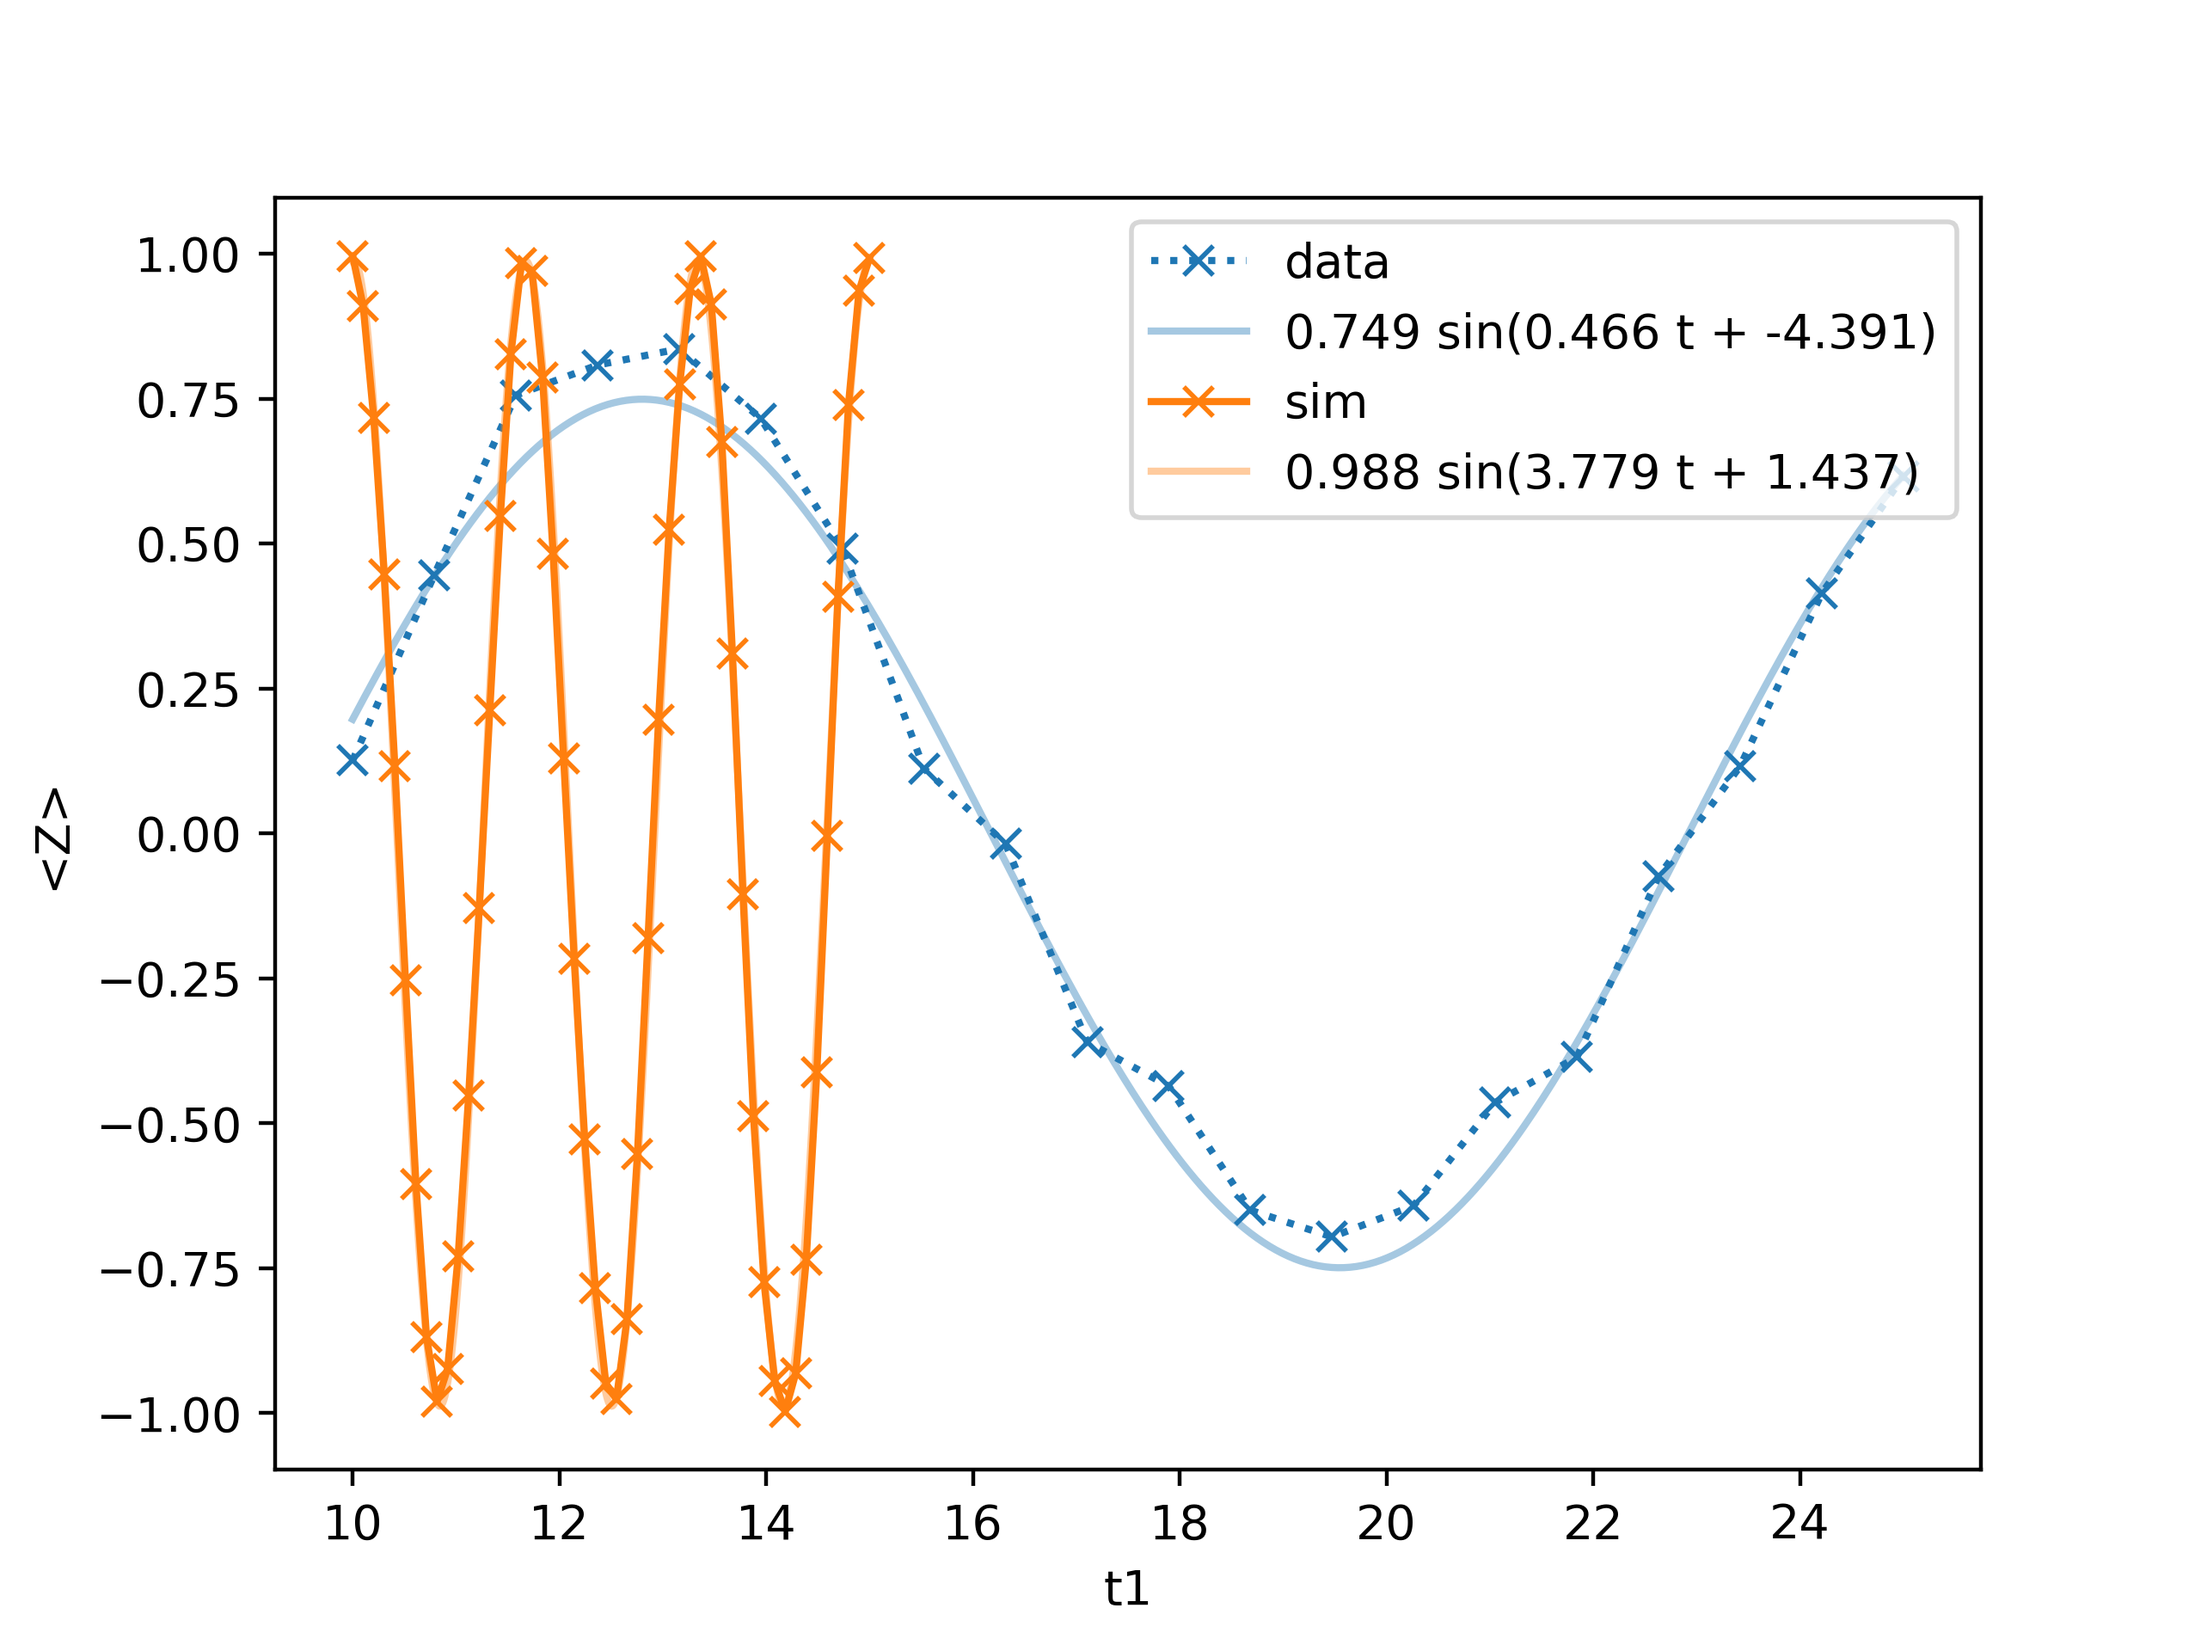
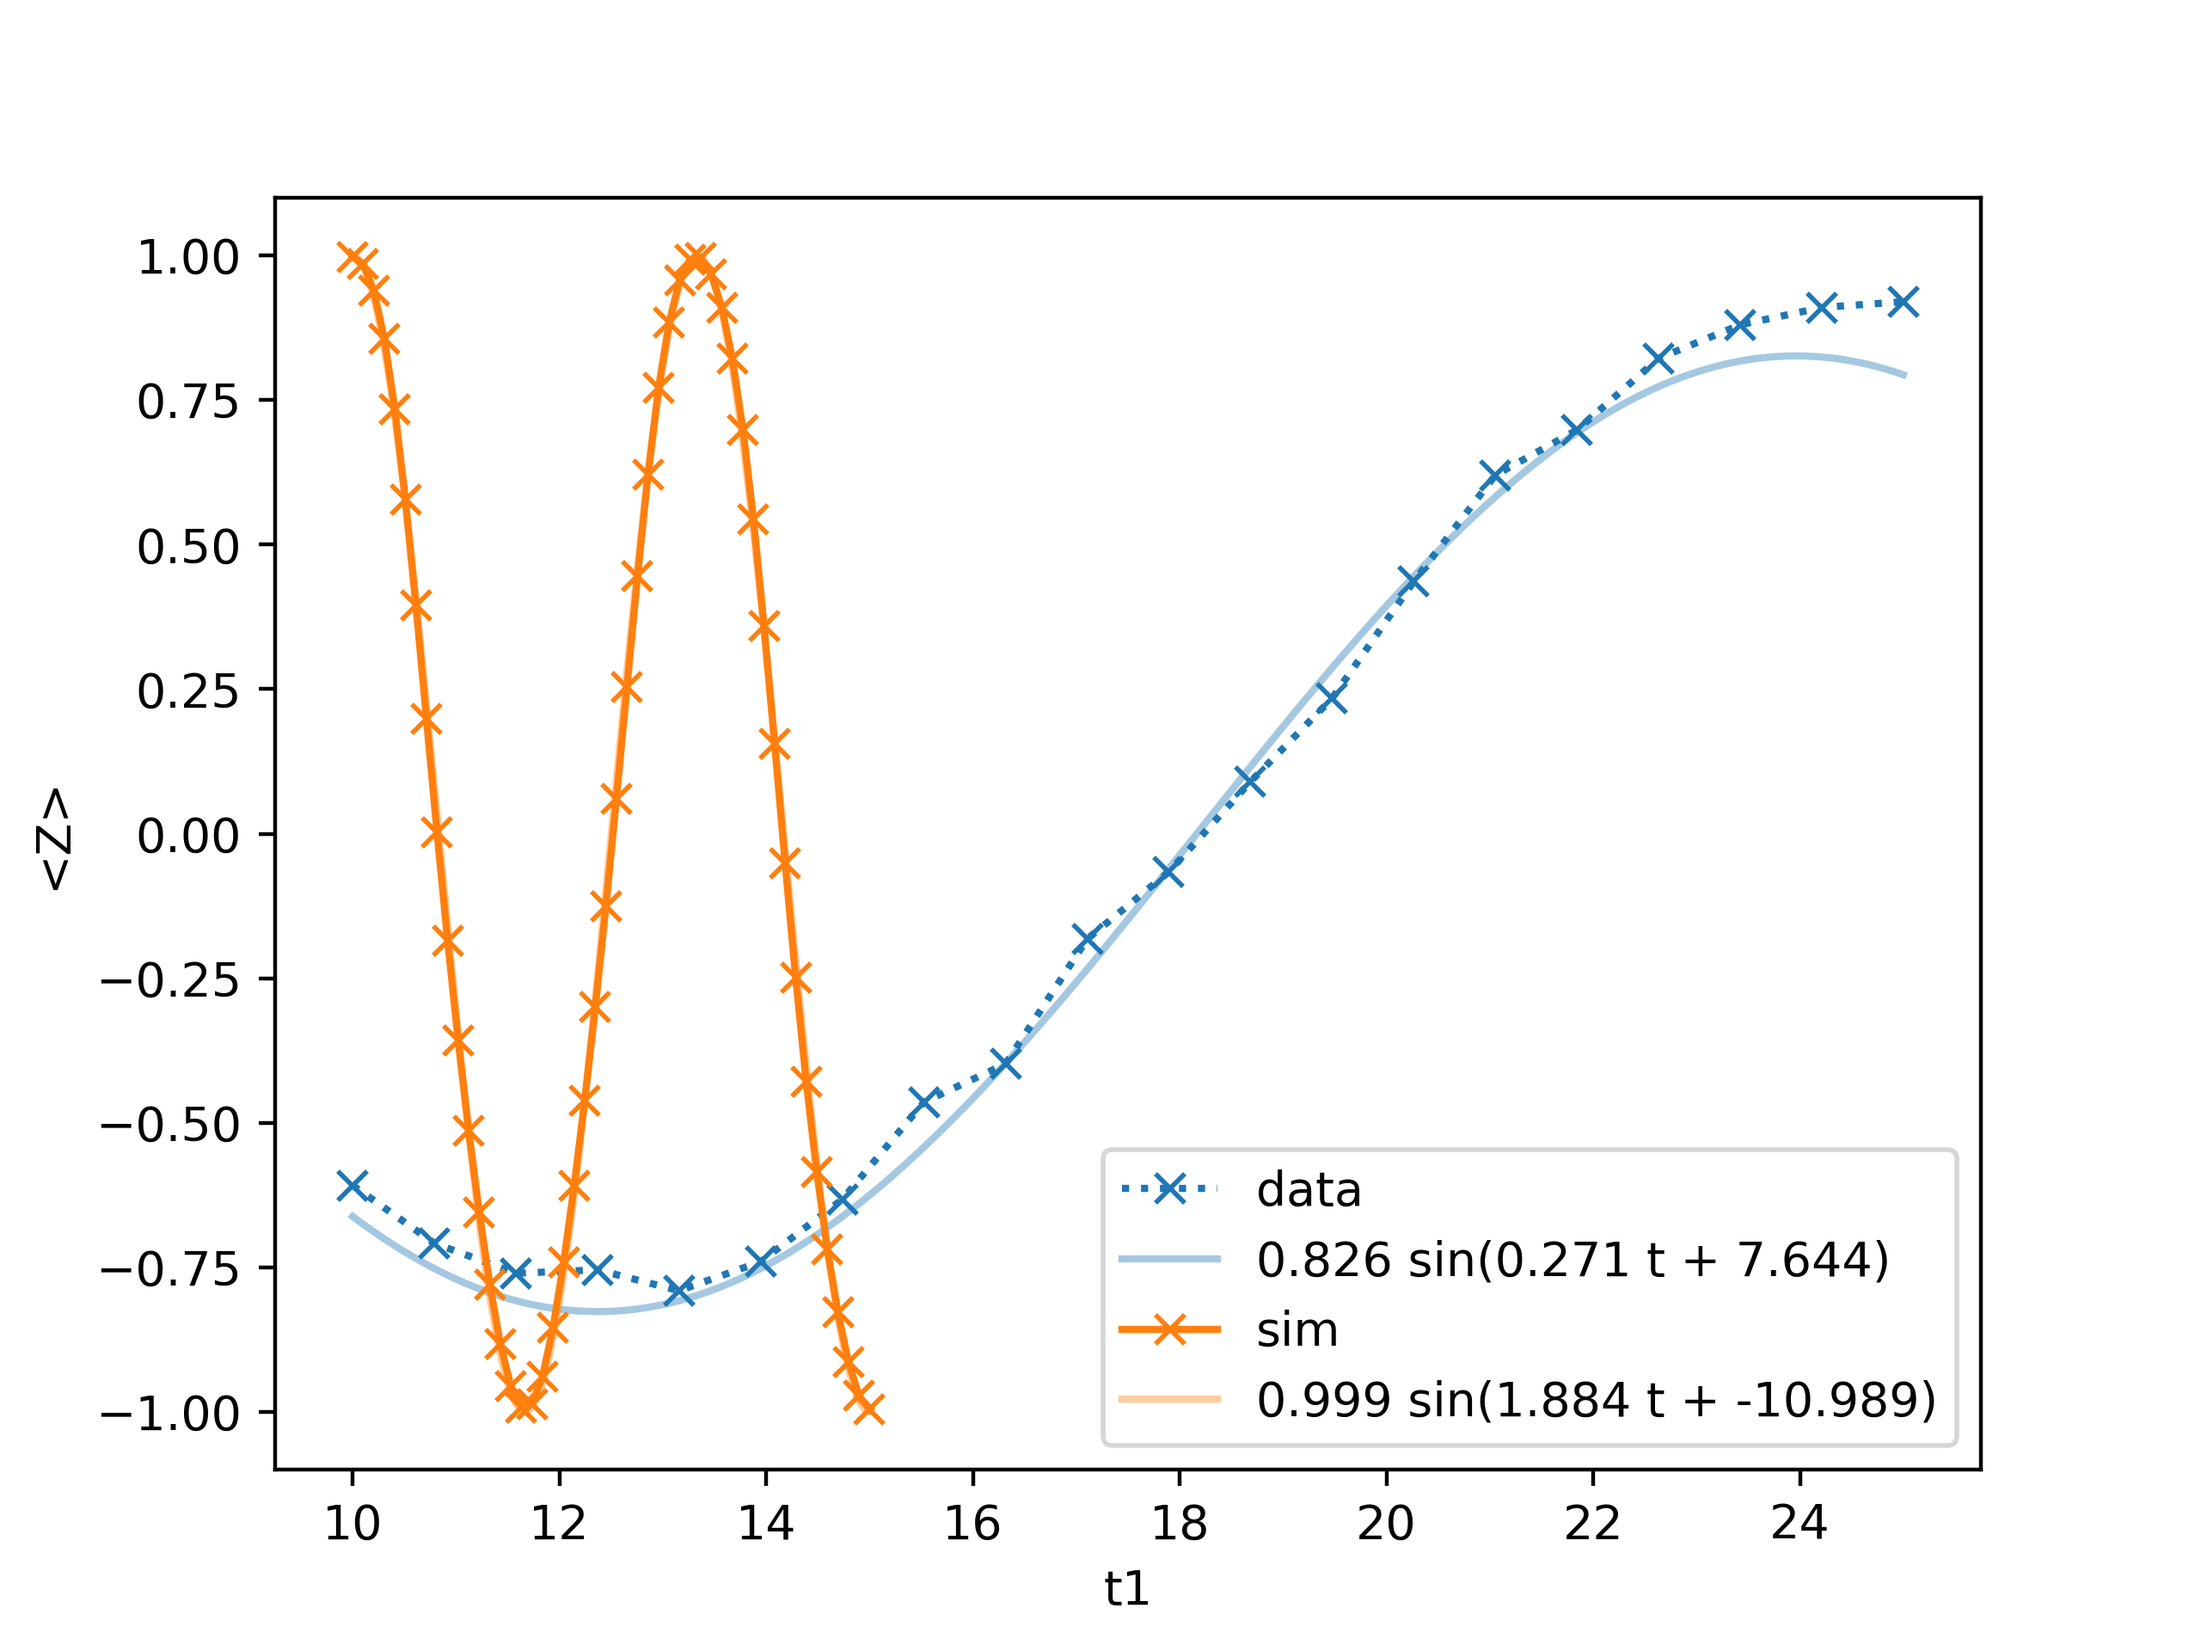
Calibration section

diff --git a/demonstrations/oqc_pulse.py b/demonstrations/oqc_pulse.py
@@ -15,17 +15,32 @@ Abstract
 
 |
 
-.. figure:: ../demonstrations/ahs_aquila/aquila_demo_image.png
+.. figure:: ../demonstrations/oqc_pulse/qubit_rotation.png
     :align: center
     :width: 70%
-    :alt: Illustration of robotic hand controlling Rubidium atoms with electromagnetic pulses
+    :alt: Illustration of how single qubit rotations are realized by Z-precession and Rabi oscillation
     :target: javascript:void(0);
 
 |
 
+Introduction
+============
+
+Pulse level access to quantum computers provides a `new class for parametrizing gates <tutorial_pulse_programming101>`_.
+Additionally to accessing `neutral atom quantum computers by Quera through PennyLane and aws <ahs_aquila>`_, we now 
+also have the opportunity to access a 8-qubit superconducting quantum computer with a ring-like connectivity,
+OQC's Lucy. Through the `PennyLane-Braket plugin <https://amazon-braket-pennylane-plugin-python.readthedocs.io/en/latest/>`_,
+we can now combine digital and pulse gates.
+
+.. note::
+
+    To access remote services on Amazon Braket, you must first
+    `create an account on AWS <https://aws.amazon.com/braket/getting-started/>`__ and also follow the
+    `setup instructions <https://github.com/aws/amazon-braket-sdk-python>`__ for accessing Braket from Python.
+
 
 Transmon Physics
-----------------
+================
 
 Oxford Quantum Circuit's Lucy is a quantum computer with 8 superconducting transmon qubits based on the coaxmon design #Rahamim.
 In order to control a transmon qubit, it is driven by an electromagnetic microwave pulse. This can be modeled by the Hamiltonian
@@ -33,8 +48,11 @@ In order to control a transmon qubit, it is driven by an electromagnetic microwa
 $$ H(t) = - \frac{\omega_q}{2} Z_q + \Omega(t) \sin(\nu_q t + \phi) Y_q $$
 
 of the driven qubit with qubit frequency $\omega_q$, drive amplitude $\Omega(t)$, drive frequency $\nu_q$ and phase $\phi$.
+See, for example, reference #Krantz for a good derivation and review.
 The first term leads to a constant precession around the Z axis on the Bloch sphere, whereas the second term introduces
-the so-called Rabi oscillations between $|0\rangle$ and $|1\langle$. This can be seen by the following simple simulation,
+the so-called Rabi oscillation between $|0\rangle$ and $|1\langle$. 
+
+This can be seen by the following simple simulation,
 where we evolve the state in the Bloch sphere from $|0\rangle$ with a constant pulse of $\Omega(t) = 2 \pi \text{GHz}$
 for $1\text{ns}$.
 """
@@ -85,7 +103,7 @@ ax.legend()
 # We can see that for a fixed time, we land on a different longitude of the Bloch sphere. 
 # We can therefore control the rotation axis of the logical gate by setting the phase $\phi$
 # of the drive. Another way of seeing this is by fixing the pulse duration and looking at the
-# final state for different amplitudes.
+# final state for different amplitudes and two phases shifted by $\pi/2$.
 
 def amp(nu):
     def wrapped(p, t):
@@ -122,17 +140,164 @@ plt.savefig("qubit_rotation2.png", dpi=500)
 #     :target: javascript:void(0);
 
 ##############################################################################
+# Rabi oscillation calibration
+# ============================
+# 
+# Because every execution on the device costs money, we want to make sure that we can leverage classical 
+# simulation as best as possible. For this, we calibrate the attenuation $\nu$ between the voltage output
+# that we set on the device, $V_0$, and the actual voltage the superconducting qubit receives, $V_\text{device} = \nu V_0$.
+# The attenuation $\nu$ accounts for all losses between the arbitrary waveform generator (AWG) that outputs the signal in
+# the lab at room temperature and all wires that lead to the cooled down chip in a cryostat.
+# 
+# We start by setting up the real device and a simulation device and perform all measurements on qubit 5.
+
+wire = 5
+dev_sim = qml.device("default.qubit.jax", wires=[wire])
+dev_lucy = qml.device("braket.aws.qubit",
+    device_arn="arn:aws:braket:eu-west-2::device/qpu/oqc/Lucy",
+    wires=range(8), 
+    shots=1000,
+)
+
+qubit_freq = dev_lucy.pulse_settings["qubit_freq"][wire]
+
+##############################################################################
+# #
+
+H0 = qml.pulse.transmon_interaction(
+    qubit_freq = [qubit_freq],
+    connections = [],
+    coupling = [],
+    wires = [wire]
+)
+Hd0 = qml.pulse.transmon_drive(qml.pulse.constant, qml.pulse.constant, qubit_freq, wires=[wire])
+
+def circuit(params, duration):
+    qml.evolve(H0 + Hd0)(params, t=duration)
+    return qml.expval(qml.PauliZ(wire))
+
+qnode_sim = jax.jit(qml.QNode(circuit, dev_sim, interface="jax"))
+qnode_lucy = qml.QNode(circuit, dev_lucy, interface="jax")
+
+##############################################################################
+# We are going to fit the resulting Rabi oscillations to a sinusoid. For this we use 
+# a little helper function.
+
+from scipy.optimize import curve_fit
+def fit_sinus(x, y, initial_guess=[1., 0.1, 1]):
+    """[A, omega, phi]"""
+    x_fit = np.linspace(np.min(x), np.max(x), 500)
+
+    # Define the function to fit (sinusoidal)
+    def sinusoidal_func(x, A, omega, phi):
+        return A * np.sin(omega * x + phi)
+
+    # Perform the curve fit
+    params, _ = curve_fit(sinusoidal_func, np.array(x), np.array(y), maxfev = 10000, p0=initial_guess)
+
+    # Generate the fitted curve
+    y_fit = sinusoidal_func(x_fit, *params)
+    return x_fit, y_fit, params
+
+##############################################################################
+# We can now execute the same constant pulse for different evolution times and see Rabi oscillation
+# in the evolution of $\langle Z_5 \rangle$.
+
+t0, t1, num_ts = 10., 25., 20
+phi0 = 0.
+amp0 = 0.3
+x_lucy = np.linspace(t0, t1, num_ts)
+params = jnp.array([amp0, phi0])
+
+y_lucy = [qnode_lucy(params, t) for t in x_lucy]
+
+##############################################################################
+# And we compare that to the same pulses in simulation.
+
+
+x_lucy_fit, y_lucy_fit, coeffs_fit_lucy = fit_sinus(x_lucy, y_lucy, [1., 0.6, 1])
+
+plt.plot(x_lucy, y_lucy, "x:", label="data")
+plt.plot(x_lucy_fit, y_lucy_fit, "-", color="tab:blue", label=f"{coeffs_fit_lucy[0]:.3f} sin({coeffs_fit_lucy[1]:.3f} t + {coeffs_fit_lucy[2]:.3f})", alpha=0.4)
+
+params_sim = jnp.array([amp0, phi0])
+x_sim = jnp.linspace(10., 15., 50)
+y_sim = jax.vmap(qnode_sim, (None, 0))(params_sim, x_sim)
+x_fit, y_fit, coeffs_fit_sim = fit_sinus(x_sim, y_sim, [2., 1., -np.pi/2])
+
+plt.plot(x_sim, y_sim, "x-", label="sim")
+plt.plot(x_fit, y_fit, "-", color="tab:orange", label=f"{coeffs_fit_sim[0]:.3f} sin({coeffs_fit_sim[1]:.3f} t + {coeffs_fit_sim[2]:.3f})", alpha=0.4)
+plt.legend()
+plt.ylabel("<Z>")
+plt.xlabel("t1")
+
+plt.show()
+
+##############################################################################
+# .. figure:: ../demonstrations/oqc_pulse/calibration0.png
+#     :align: center
+#     :width: 40%
+#     :alt: Rabi oscillation for different pulse lengths.
+#     :target: javascript:void(0);
+# 
+# We see that the oscillation on the real device is significantly slower due to the attenuation.
+# We can estimate it by ratio of the measured Rabi frequency for simulation and device execution.#
+
+attenuation = np.abs(coeffs_fit_lucy[1] / coeffs_fit_sim[1])
+print(attenuation)
+
+##############################################################################
+# .. rst-class:: sphx-glr-script-out
+#
+#  Out:
+#
+#  .. code-block:: none
+#
+#      0.14381682156995643
+
+##############################################################################
+# We can now plot the same comparison above but with the attenuation factored in and see a
+# better match between simulation and device execution.
+
+plt.plot(x_lucy, y_lucy, "x:", label="data")
+plt.plot(x_lucy_fit, y_lucy_fit, "-", color="tab:blue", label=f"{coeffs_fit_lucy[0]:.3f} sin({coeffs_fit_lucy[1]:.3f} t + {coeffs_fit_lucy[2]:.3f})", alpha=0.4)
+
+params_sim = jnp.array([attenuation * amp0, phi0])
+x_sim = jnp.linspace(10., 25., 50)
+y_sim = jax.vmap(qnode_sim, (None, 0))(params_sim, x_sim)
+x_fit, y_fit, coeffs_fit_sim = fit_sinus(x_sim, y_sim, [2., 0.5, -np.pi/2])
+
+plt.plot(x_sim, y_sim, "x-", label="sim")
+plt.plot(x_fit, y_fit, "-", color="tab:orange", label=f"{coeffs_fit_sim[0]:.3f} sin({coeffs_fit_sim[1]:.3f} t + {coeffs_fit_sim[2]:.3f})", alpha=0.4)
+plt.legend()
+plt.ylabel("<Z>")
+plt.xlabel("t1")
+
+plt.show()
+
+##############################################################################
+# .. figure:: ../demonstrations/oqc_pulse/calibration1.png
+#     :align: center
+#     :width: 40%
+#     :alt: Rabi oscillation for different pulse lengths.
+#     :target: javascript:void(0);
+
+##############################################################################
+# In particular, we see a match in both Rabi frequencies.
+
+
+
+##############################################################################
+# X-Y Rotations
+# =============
 # #
 
 
 
 ##############################################################################
-# 
-
-
-
-##############################################################################
-# 
+# Conclusion
+# ==========
+# #
 
 
 
